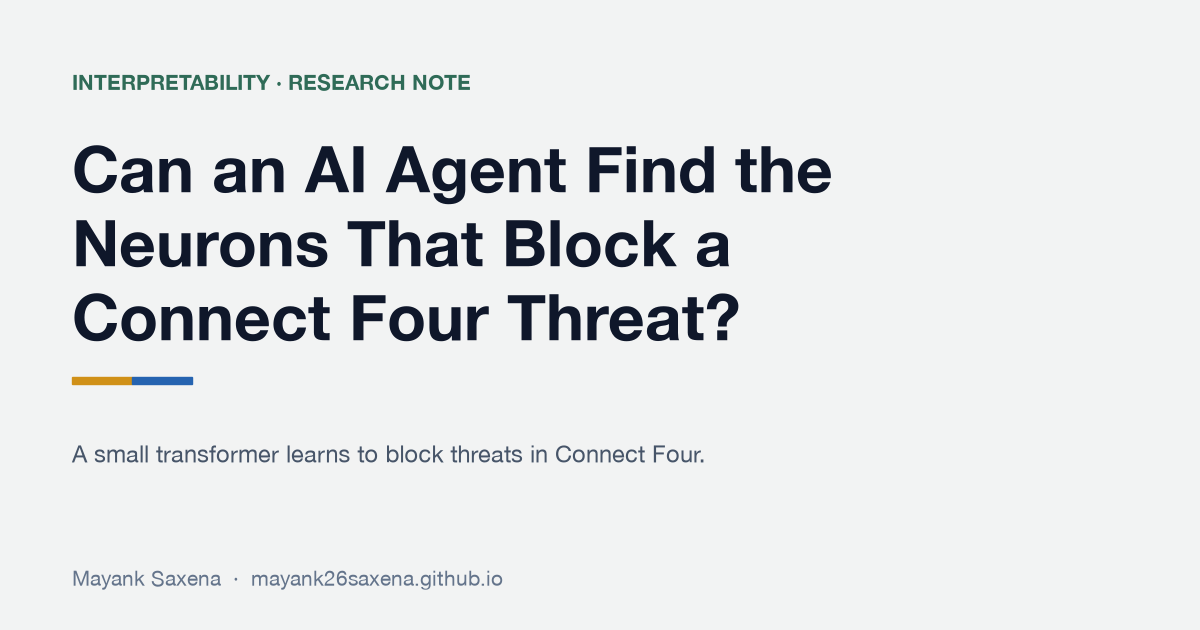
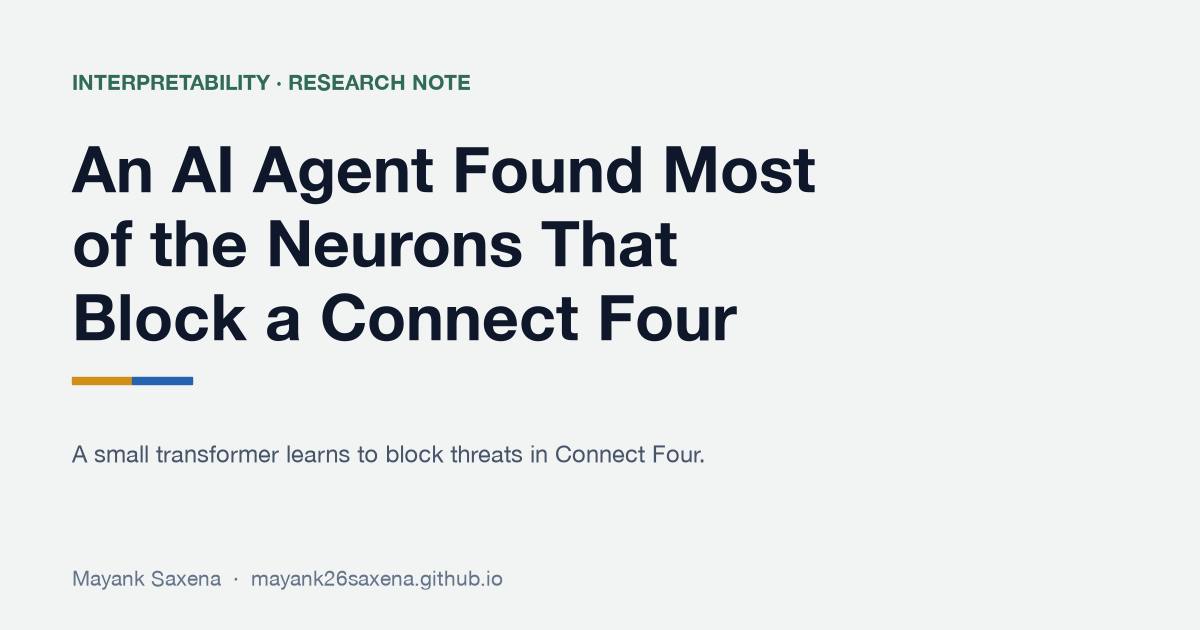
Connect Four post: title as a statement

Changed region(s): [[0.0617, 0.2111, 0.7092, 0.4222], [0.0617, 0.4524, 0.6167, 0.5429]]

diff --git a/blog/connect-four-blocking-neurons/index.html b/blog/connect-four-blocking-neurons/index.html
@@ -3,11 +3,11 @@
 <head>
 <meta charset="utf-8">
 <meta name="viewport" content="width=device-width, initial-scale=1">
-<title>Can an AI Agent Find the Neurons That Block a Connect Four Threat?</title>
+<title>An AI Agent Found Most of the Neurons That Block a Connect Four Threat</title>
 <meta name="description" content="A small transformer learns to block threats in Connect Four. We traced how, from one attention head to seven column alarms, then asked an AI agent to describe its neurons blind. It picked out 14 of the 20 key neurons as block detectors, and 2 of 20 decoys. With a live demo and a neuron atlas.">
 <link rel="canonical" href="https://mayank26saxena.github.io/blog/connect-four-blocking-neurons/">
 <meta property="og:type" content="article">
-<meta property="og:title" content="Can an AI Agent Find the Neurons That Block a Connect Four Threat?">
+<meta property="og:title" content="An AI Agent Found Most of the Neurons That Block a Connect Four Threat">
 <meta property="og:description" content="A small transformer learns to block threats in Connect Four. We traced how, from one attention head to seven column alarms, then asked an AI agent to describe its neurons blind. It picked out 14 of the 20 key neurons as block detectors, and 2 of 20 decoys. With a live demo and a neuron atlas.">
 <meta property="og:url" content="https://mayank26saxena.github.io/blog/connect-four-blocking-neurons/">
 <meta property="og:image" content="https://mayank26saxena.github.io/blog/connect-four-blocking-neurons/share.png">
@@ -16,7 +16,7 @@
 <meta property="article:author" content="Mayank Saxena">
 <meta property="article:published_time" content="2026-11-24">
 <meta name="twitter:card" content="summary_large_image">
-<meta name="twitter:title" content="Can an AI Agent Find the Neurons That Block a Connect Four Threat?">
+<meta name="twitter:title" content="An AI Agent Found Most of the Neurons That Block a Connect Four Threat">
 <meta name="twitter:description" content="A small transformer learns to block threats in Connect Four. We traced how, from one attention head to seven column alarms, then asked an AI agent to describe its neurons blind. It picked out 14 of the 20 key neurons as block detectors, and 2 of 20 decoys. With a live demo and a neuron atlas.">
 <meta name="twitter:image" content="https://mayank26saxena.github.io/blog/connect-four-blocking-neurons/share.png">
 <link rel="icon" type="image/png" sizes="32x32" href="/assets/img/favicon-32x32.png?v=3">
@@ -39,7 +39,7 @@
 <div class="col crumbs"><a href="/">Mayank Saxena</a><span aria-hidden="true">/</span><a href="/blog/">Writing</a></div>
 <header class="top"><div class="col">
   <p class="kicker">Interpretability · research note</p>
-  <h1>Can an AI Agent Find the Neurons That <span class="hi">Block a Connect Four Threat</span>?</h1>
+  <h1>An AI Agent Found Most of the Neurons That <span class="hi">Block a Connect Four Threat</span></h1>
   <p class="standfirst">A 6.3M-parameter transformer learns to block your threats. We traced how it does it, from one attention head to seven column alarms, and tested whether an AI agent describing its neurons blind would have found them.</p>
   <div class="meta"><span><b>Mayank Saxena</b></span><span>November 2026</span><span><a href="https://github.com/mayank26saxena/connect-four-neurons">Code and data</a></span></div>
 </div></header>

diff --git a/blog/index.html b/blog/index.html
@@ -45,7 +45,7 @@
 </div></header>
 <main><div class="col">
 <ul class="post-list">
-<li><a href="connect-four-blocking-neurons/"><span class="pl-date">Nov 2026</span><span class="pl-title">Can an AI Agent Find the Neurons That Block a Connect Four Threat?</span><span class="pl-desc">A small transformer learns to block threats in Connect Four. We traced how, from one attention head to seven column alarms, then asked an AI agent to describe its neurons blind. It picked out 14 of the 20 key neurons as block detectors, and 2 of 20 decoys. With a live demo and a neuron atlas.</span></a></li>
+<li><a href="connect-four-blocking-neurons/"><span class="pl-date">Nov 2026</span><span class="pl-title">An AI Agent Found Most of the Neurons That Block a Connect Four Threat</span><span class="pl-desc">A small transformer learns to block threats in Connect Four. We traced how, from one attention head to seven column alarms, then asked an AI agent to describe its neurons blind. It picked out 14 of the 20 key neurons as block detectors, and 2 of 20 decoys. With a live demo and a neuron atlas.</span></a></li>
 <li><a href="cross-lingual-safety-gap/"><span class="pl-date">Nov 2026</span><span class="pl-title">AI Chatbots Refuse Harmful Requests Less Often in Hindi</span><span class="pl-desc">Asked the same harmful requests in English and in Hindi, two open chat models (Qwen3-8B and Llama-3.1-8B-Instruct) refuse far less often in Hindi. What they do instead, what changes inside them, and how far steering can bring the refusals back.</span></a></li>
 <li><a href="placeholder-names-privacy/"><span class="pl-date">Oct 2026</span><span class="pl-title">Privacy Tests Can Make AI Look Better at Keeping Secrets</span><span class="pl-desc">Replacing realistic names with placeholders such as Person A made four open language models protect private information more often, while swapping in other realistic names did not. A pre-specified study of how a benchmark-design choice changes measured privacy behavior.</span></a></li>
 <li><a href="dormant-llm-backdoor-search/"><span class="pl-date">Mar 2026</span><span class="pl-title">Can Autoresearch Find Hidden Backdoors in Language Models?</span><span class="pl-desc">Autoresearch hands the experiment loop to an AI agent: edit one file, run a fixed test, read one number, keep or revert. What it is, what carries over to new problems, and where it breaks, with a backdoor hunt on Jane Street&#x27;s Dormant LLM puzzle as the case study.</span></a></li>

diff --git a/blog/connect-four-blocking-neurons/demo/index.html b/blog/connect-four-blocking-neurons/demo/index.html
@@ -4,7 +4,7 @@
 <meta charset="utf-8">
 <meta name="viewport" content="width=device-width, initial-scale=1">
 <title>Interactive Demo: Inside the Vertical Blocker</title>
-<meta name="description" content="Play Connect Four against a small transformer and watch all 6,144 of its neurons respond: the attention head, directions and column alarms that block a vertical threat, with switches to turn each part off. Companion to the post Can an AI Agent Find the Neurons That Block a Connect Four Threat?.">
+<meta name="description" content="Play Connect Four against a small transformer and watch all 6,144 of its neurons respond: the attention head, directions and column alarms that block a vertical threat, with switches to turn each part off. Companion to the post An AI Agent Found Most of the Neurons That Block a Connect Four Threat.">
 <link rel="preconnect" href="https://fonts.googleapis.com">
 <link rel="preconnect" href="https://fonts.gstatic.com" crossorigin>
 <link href="https://fonts.googleapis.com/css2?family=Inter:wght@400;500;600&family=JetBrains+Mono:wght@400;500;600&family=Literata:ital,opsz,wght@0,7..72,400;0,7..72,600&family=Space+Grotesk:wght@500;600;700&display=swap" rel="stylesheet">
@@ -14,7 +14,7 @@
 </head>
 <body class="demo-page">
 <header class="hero demo-hero">
-  <p class="back"><a href="../index.html">← Back to the post: Can an AI Agent Find the Neurons That Block a Connect Four Threat?</a></p>
+  <p class="back"><a href="../index.html">← Back to the post: An AI Agent Found Most of the Neurons That Block a Connect Four Threat</a></p>
   <p class="kicker">Interactive demo · Connect Four</p>
   <h1>Inside the <span class="hi">vertical blocker</span></h1>
   <p class="standfirst">A live copy of the model runs in your browser. You play ochre. Scroll for a guided tour of the four steps it uses to block you, or skip to the end and play freely.</p>

diff --git a/blog/connect-four-blocking-neurons/atlas/index.html b/blog/connect-four-blocking-neurons/atlas/index.html
@@ -71,7 +71,7 @@
   </section>
 </main>
 <div class="tip" id="tip"></div>
-<footer><div class="foot">Concept labels come from 659 exact game concepts (F1 on held-out games); agent descriptions from three pre-registered studies (120 neurons, then a blind test on 20 circuit neurons and 20 decoys). Columns and rows are numbered from 0. Part of <a href="../index.html">Can an AI Agent Find the Neurons That Block a Connect Four Threat?</a>.</div></footer>
+<footer><div class="foot">Concept labels come from 659 exact game concepts (F1 on held-out games); agent descriptions from three pre-registered studies (120 neurons, then a blind test on 20 circuit neurons and 20 decoys). Columns and rows are numbered from 0. Part of <a href="../index.html">An AI Agent Found Most of the Neurons That Block a Connect Four Threat</a>.</div></footer>
 <script src="../lib/concepts.js?v=7c36b397"></script>
 <script src="../vertical/c4model.js?v=b307be9b"></script>
 <script src="../data/atlas.js?v=7bcc0f2e"></script>
